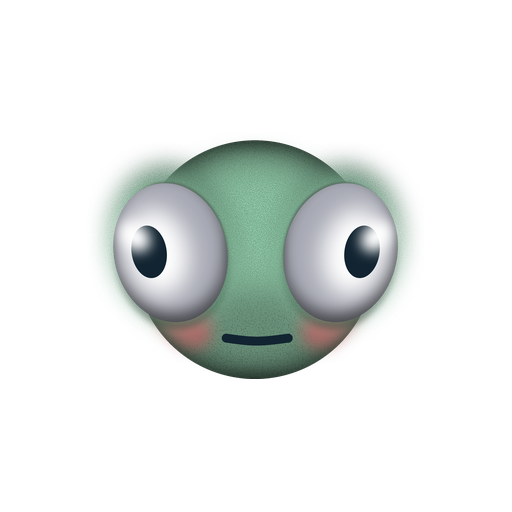
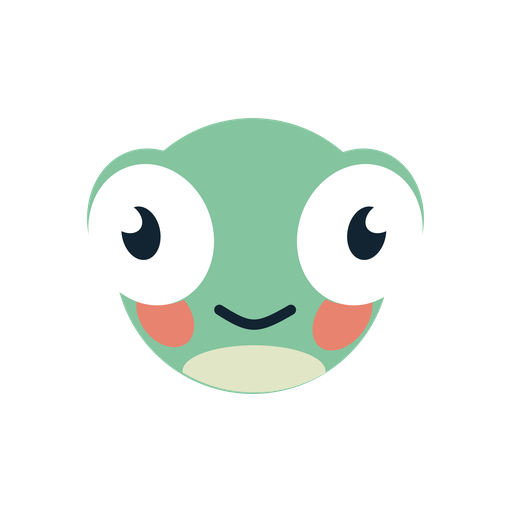
feat(marca): actualiza el icono a la version plana del sapo

Changed region(s): [[0.1562, 0.2188, 0.8438, 0.7812]]

diff --git a/assets/brand/README.md b/assets/brand/README.md
@@ -7,8 +7,12 @@ los PNG a mano.
 ## Cómo se generó
 
 `rsvg-convert` a 2048 px y de ahí se reduce a cada tamaño. Renderizar directo
-al tamaño final pierde el ruido y los bordes difuminados del SVG; reducir
-desde el doble los conserva.
+al tamaño final ensucia los bordes curvos; reducir desde el doble los deja
+limpios.
+
+El logo es plano —sin filtros ni degradados—, que para un icono es lo que
+conviene: a 60 px, que es como se ve en la pantalla de inicio, un degradado
+se convierte en barro y una silueta clara sigue leyéndose.
 
 | Archivo | Tamaño | Ocupación | Por qué |
 |---|---|---|---|
@@ -31,6 +35,13 @@ también el resplandor difuminado de los ojos y la silueta se redondea.
 
 ## El fondo
 
-`#2C2E3C`, el mismo de la app. El anterior era `#E6F4FE`, celeste claro, y
-sobre eso el resplandor verde de los ojos desaparece: ese halo es parte del
-arte, no un artefacto del render.
+`#2C2E3C`, el mismo de la app. El de Android era `#E6F4FE`, celeste claro, y
+sobre eso el verde del sapo pierde contraste.
+
+## Antes de dar por bueno un logo nuevo
+
+Comparar la mitad izquierda del render contra la derecha espejada. Una versión
+anterior traía un filtro de desenfoque en un solo ojo —al simplificar el arte
+quedó en uno y no en el otro—, y el resultado era una pupila con brillo de
+esfera y la otra recortada como media luna. En pantalla grande no salta;
+como icono, sí.
